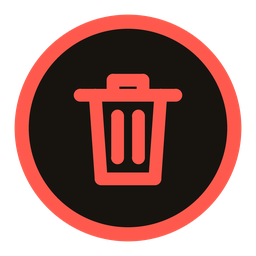
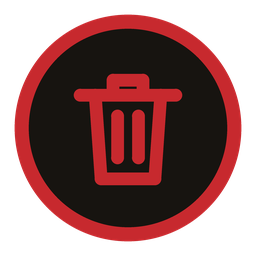
Crimson accent, and the game's popup without the line about typing DELETE
- The accent is now crimson, with white text on the solid Delete button,
  in the dialog, the style chooser and the addon icon.
- The game's popup (the classic style, and the fallback in combat) now
  asks only "Do you want to destroy [item]?", using the game's own text
  for common items (DELETE_ITEM, or DELETE_QUEST_ITEM with its quest
  warning). The text box is hidden and the buttons move up into its
  place with the game's own spacing. The popup itself is still the
  game's, opened by the game, so Yes stays a plain Blizzard click.
- The chooser, the chat messages and the README describe the popup that
  way, and the README pictures show the crimson dialog and chooser.

Claude-Session: https://claude.ai/code/session_01EnrKggJnP4FXeUQJSEN12q

Changed region(s): [[0.0312, 0.0312, 0.9688, 0.9688], [0.2812, 0.2812, 0.7188, 0.75]]

diff --git a/tools/gen_icons.py b/tools/gen_icons.py
@@ -1,6 +1,6 @@
 """Draws the addon's textures in EasyDelete/Media/ and the README icon, in the line style of Crescendo's logo.
 
-- Icon.tga: the AddOns list icon, a red trash can in a ring, 64x64
+- Icon.tga: the AddOns list icon, a crimson trash can in a ring, 64x64
 - .github/icon.png: the README icon, 256x256
 
 Run: python3 tools/gen_icons.py"""
@@ -10,7 +10,7 @@ from PIL import Image, ImageDraw
 
 root = os.path.join(os.path.dirname(os.path.abspath(__file__)), '..')
 media = os.path.join(root, 'EasyDelete', 'Media')
-RED = (255, 89, 77, 255)
+RED = (199, 41, 46, 255)
 
 
 def trash(draw, p, width, color):

diff --git a/README.md b/README.md
@@ -24,9 +24,9 @@ Deleting a valuable item in World of Warcraft makes you type the word **DELETE**
 - **One click to delete.** No more typing “DELETE” for rare, epic or quest items. **Enter** deletes, **Escape** keeps the item.
 - **See what you delete.** The item's icon, name in its quality colour, quality and stack size. Hover the item for its full tooltip.
 - **Quest items are flagged.** A warning shows when deleting the item also abandons its quest.
-- **A modern look.** Dark panels, thin borders and a red accent, matching Crescendo and EllesmereUI. With EllesmereUI installed, the dialog uses its font.
+- **A modern look.** Dark panels, thin borders and a crimson accent, matching Crescendo and EllesmereUI. With EllesmereUI installed, the dialog uses its font.
 - **Every version of the game.** One download works on Retail, all Classic flavors and WoW Forever.
-- **Your choice of style.** The first time you log in, Easy Delete asks which you prefer: its own dialog, or the game's popup with “DELETE” already filled in. Change it any time in *Options > AddOns > Easy Delete* or with `/easydelete`.
+- **Your choice of style.** The first time you log in, Easy Delete asks which you prefer: its own dialog, or the game's popup without having to type “DELETE”. Change it any time in *Options > AddOns > Easy Delete* or with `/easydelete`.
 - **Plays nicely with other addons.** If another addon has already dealt with the delete popup, Easy Delete stays out of its way, so you never get two dialogs.
 
 <div align="center">
@@ -65,7 +65,7 @@ The game automatically loads the right `.toc` file for the client you are playin
 | --- | --- |
 | `/easydelete` | Opens the options, where you pick the style. `/edel` works too. |
 | `/easydelete preview` | Shows the dialog with an example item, without deleting anything. |
-| `/easydelete classic` | Uses the game's own popup, with “DELETE” already filled in. |
+| `/easydelete classic` | Uses the game's own popup, without having to type “DELETE”. |
 | `/easydelete dialog` | Uses Easy Delete's dialog. |
 | `/easydelete help` | Lists the commands. |
 
@@ -77,7 +77,7 @@ When you drag an item out of your bags to destroy it, the game opens its confirm
 - **Cancel**, **x** or **Escape** puts it back where it came from.
 - If the item leaves your cursor some other way, the dialog closes by itself.
 
-The game restricts what addons can do in combat, so to be safe Easy Delete uses the game's popup in combat with “DELETE” already filled in, and **Yes** works right away. If a fight starts while the dialog is open, the item goes back to your bags.
+The game restricts what addons can do in combat, so to be safe Easy Delete uses the game's popup in combat. There's no need to type “DELETE” there either: the popup just asks whether to destroy the item, and **Yes** works right away. If a fight starts while the dialog is open, the item goes back to your bags.
 
 The item is only ever deleted when you click **Delete** or press **Enter** yourself.
 
